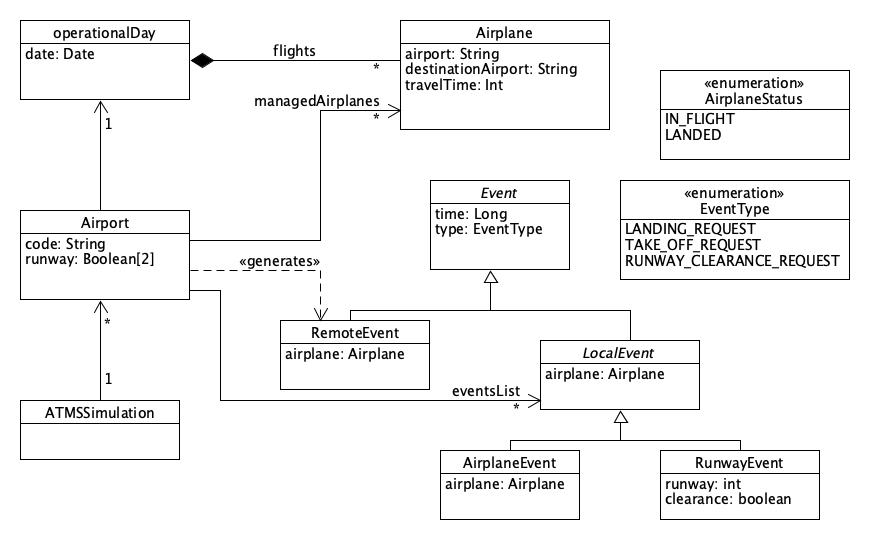
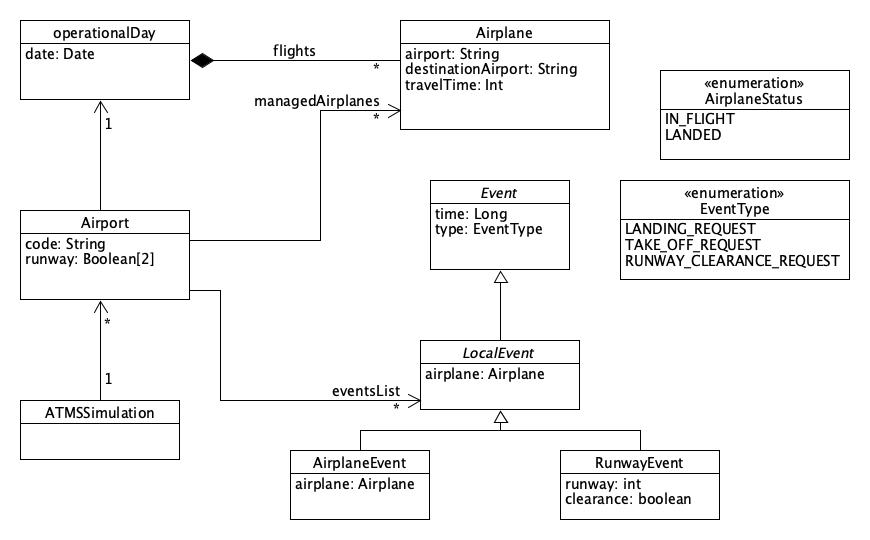
Delete RemoteEvent

diff --git a/src/it/uniroma2/ibds/atms/federate/FederateAmbassadorImpl.java b/src/it/uniroma2/ibds/atms/federate/FederateAmbassadorImpl.java
@@ -295,13 +295,15 @@ public class FederateAmbassadorImpl extends NullFederateAmbassador {
 			if (destEncoder.getValue().equals(this.federate.getCode())) {
 				System.out.println("[" + this.federateTime + "] " + this.federate.federateName
 						+ "_FEDAMB Received Attribute Insert.");
+				System.out.println("\t flightCode: " + flightCodeDecoder.getValue());
 				// The local object is updated
 				// Create new airplane with source and destination airport switched
 				Airplane a = new Airplane(AirplaneState.LANDED, flightCodeDecoder.getValue(), airportEncoder.getValue(),
 						destEncoder.getValue(), travelTimeEncoder.getValue());
 				// Decode reflect attribute event time
 				HLAinteger64Time theTimeDecoder = (HLAinteger64Time) theTime;
-				long arrivalTime = theTimeDecoder.getValue() - this.federateLookahead + travelTimeEncoder.getValue();
+				long arrivalTime = ((HLAinteger64Time) theTime).getValue();
+				System.out.println("\t arrivalTime: "+arrivalTime);
 				// Schedule new flight with event time - federate.lookahead + plane travel time
 				this.federate.addFlightToOperationalDay(arrivalTime, a);
 				// a local event corresponding to the remote one is added to the eventlist

diff --git a/src/it/uniroma2/ibds/atms/federate/Airport.java b/src/it/uniroma2/ibds/atms/federate/Airport.java
@@ -7,10 +7,8 @@ import java.util.Arrays;
 import java.util.HashSet;
 import java.util.Iterator;
 import java.util.PriorityQueue;
-import java.util.Random;
 import java.util.Set;
-import java.util.SortedSet;
-import java.util.TreeSet;
+import java.util.SortedMap;
 
 import hla.rti1516e.AttributeHandle;
 import hla.rti1516e.AttributeHandleSet;
@@ -683,13 +681,11 @@ public class Airport {
 			System.out.println(le.getEventType() + " expected at time " + le.getTime());
 		}
 
-		System.out.println("Flight remained: ");
-		Iterator<Airplane> flightsRemained = this.operationalDay.getFlightsScheduled();
-		Airplane plane;
-		while (flightsRemained.hasNext()) {
-			plane = flightsRemained.next();
-			System.out.println(plane.getFlightCode());
-		}
+		System.out.println("Flights remained: ");
+		SortedMap<Long, Airplane> flightsRemained = this.operationalDay.getFlightsScheduled();
+		flightsRemained.tailMap(this._simulationEndTime+1).forEach((time, airplane) -> {
+			System.out.println("<" + time + "," + airplane.getFlightCode()+">");
+		});
 
 	}
 }

diff --git a/src/it/uniroma2/ibds/atms/federate/OperationalDay.java b/src/it/uniroma2/ibds/atms/federate/OperationalDay.java
@@ -28,7 +28,7 @@ public class OperationalDay {
 		this.flightsScheduled.put(time, a);
 	}
 
-	public Iterator<Airplane> getFlightsScheduled() {
+	public Iterator<Airplane> getAirplanesScheduled() {
 		return this.flightsScheduled.values().iterator();
 	}
 
@@ -38,6 +38,10 @@ public class OperationalDay {
 
 	public int length() {
 		return this.flightsScheduled.size();
+	}
+	
+	public SortedMap<Long, Airplane> getFlightsScheduled() {
+		return this.flightsScheduled;
 	}
 
 	/**
